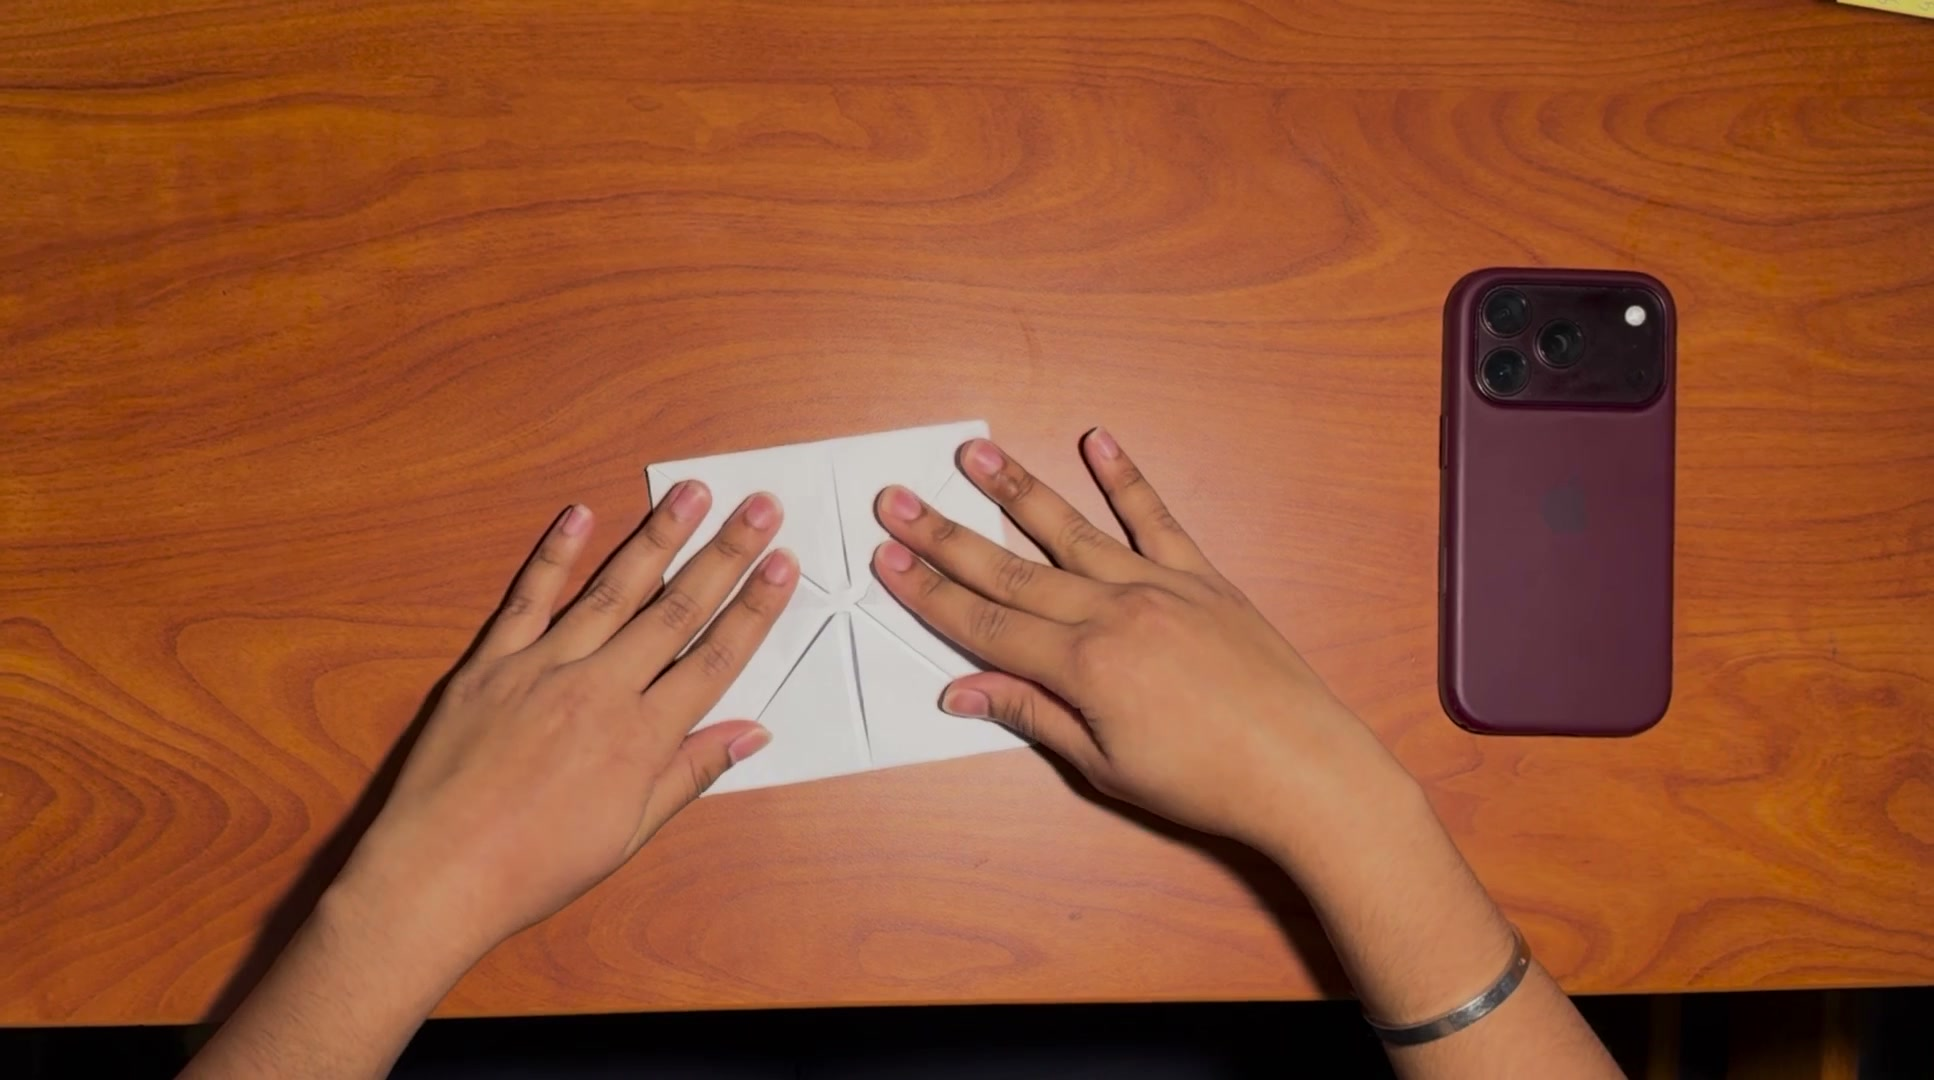
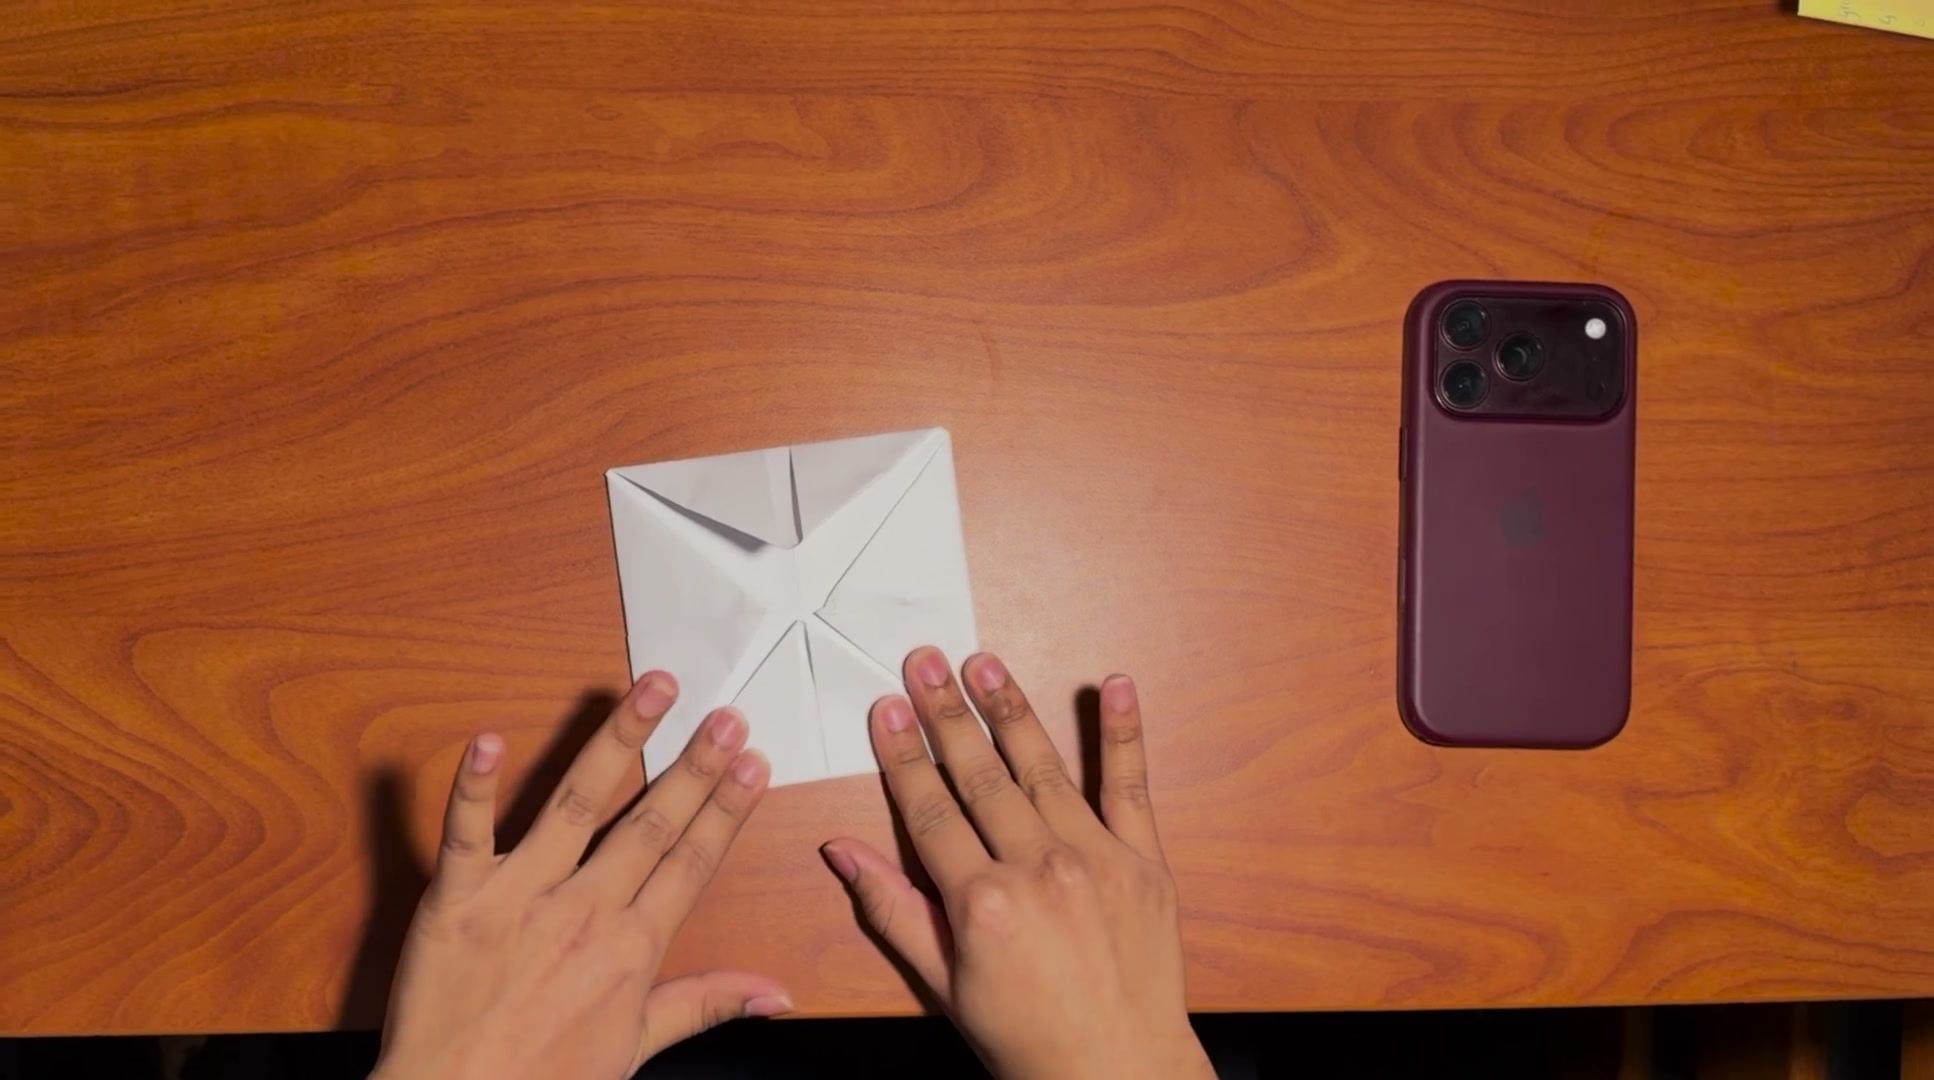
Distinguish actual origami folds from creases using learner before views

diff --git a/server/test_engine.py b/server/test_engine.py
@@ -745,6 +745,42 @@ def test_check_event_and_mistake_source_name_the_real_provider() -> None:
     assert mis["source"] == "claude" and engine.mistake and engine.mistake["source"] == "claude", mis
 
 
+def test_transition_checks_use_this_learners_before_view_only_when_requested() -> None:
+    make_lesson()
+    engine = main.Engine()
+    engine.select(LESSON)
+    assert engine.lesson is not None
+    engine.lesson["steps"][1]["check_transition"] = True
+    before = jpeg((60, 70, 80))
+    engine.frame = before
+    engine.cameras = 1
+    engine.step = 1
+    engine._enter_step()
+    assert engine.step_before_frame == before
+    # A later camera frame cannot replace the stable BEFORE view while checks run in parallel.
+    engine.frame = FRAME
+    engine.gated_frame, engine.gated_seq = FRAME, engine.checked_seq + 1
+    engine.frame_wanted = True
+    job = engine._next_job()
+    assert job is not None and job.prev_ref == before and job.frame == FRAME
+    # Normal steps retain their authored previous reference, without adding work or latency.
+    engine.step = 2
+    engine._enter_step()
+    assert engine.step_before_frame is None
+    engine.gated_seq = engine.checked_seq + 1
+    engine.frame_wanted = True
+    engine.offered_at = 0
+    job = engine._next_job()
+    assert job is not None and job.prev_ref == engine.ref_bytes(1)
+    # A disconnected camera and an unloaded lesson cannot leak an old learner image into a new step.
+    engine.step, engine.cameras = 1, 0
+    engine._enter_step()
+    assert engine.step_before_frame is None
+    engine.lesson = None
+    engine._enter_step()
+    assert engine.step_before_frame is None
+
+
 def test_frame_debouncer_order_and_fast_path() -> None:
     def deb() -> main.FrameDebouncer:
         return main.FrameDebouncer()

diff --git a/server/main.py b/server/main.py
@@ -684,6 +684,7 @@ class Engine:
         self.checking = False
         self.verified = False
         self.last_check: Optional[dict] = None
+        self.step_before_frame: Optional[bytes] = None
         self.mistake: Optional[dict] = None  # contract 7.2 fields minus "type"
         self.version = 0  # bumps on every lesson or step change
         self.step_started = time.monotonic()
@@ -958,6 +959,10 @@ class Engine:
         self.tracker.start_step(self.step, self.understand_entry(self.step))
         self.step_started = time.monotonic()
         self.checked_seq = self.frame_seq  # never judge a new step with a frame taken before it began
+        # Opt-in for visually similar consecutive results: use this learner's actual starting arrangement
+        # as BEFORE. The authored previous reference may look very different from a glasses camera angle.
+        cur = self.current()
+        self.step_before_frame = self.frame if cur and cur.get("check_transition") is True and self.cameras > 0 else None
 
     def load_rubric(self) -> None:
         """The lesson's rubric.json when understanding is on; None when missing or stale (after a recut)."""
@@ -1418,7 +1423,7 @@ class Engine:
         if urgent and interval < self.check_interval_s():
             metrics["checks_fast_confirm"] += 1
         question = cur.get("check_question") or "Is this step finished?"
-        prev_ref = self.ref_bytes(self.step - 1) if self.step > 0 else None
+        prev_ref = self.step_before_frame or (self.ref_bytes(self.step - 1) if self.step > 0 else None)
         return CheckJob(self.step, question, ref, frame, self.version, prev_ref, self.gated_seq,
                         self.run.run_id if self.run else None)
 
